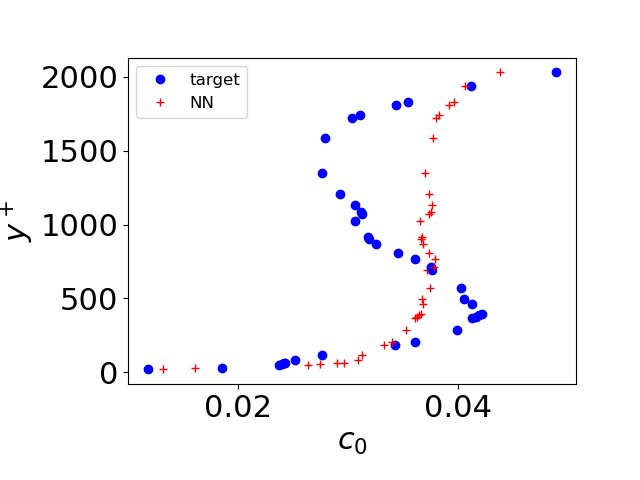
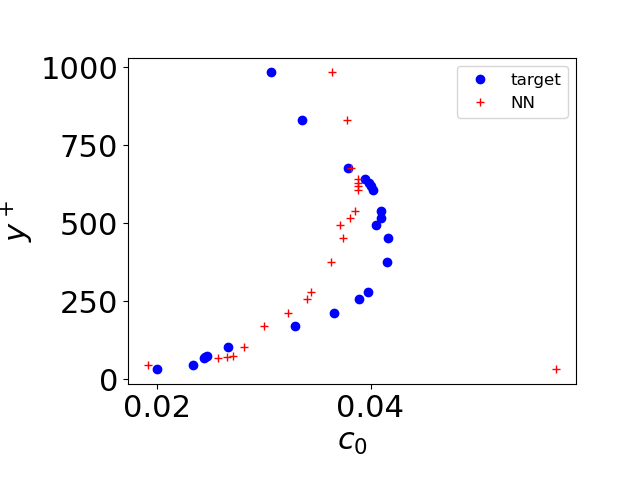
cleanup

diff --git a/NN-train-BL.py b/NN-train-BL.py
@@ -75,13 +75,13 @@ eps_DNS[0]=eps_DNS[1]
 
 
 # choose values for 30 < y+ < 1000
-#index_choose=np.nonzero((yplus_DNS > 30 )  & (yplus_DNS< 1000 ))
-index_choose=np.nonzero((yplus_DNS > 9 )  & (yplus_DNS< 2200 ))
+index_choose=np.nonzero((yplus_DNS > 30 )  & (yplus_DNS< 1000 ))
 
-# set a min on dudy
+# Originally this one
+#index_choose=np.nonzero((yplus_DNS > 9 )  & (yplus_DNS< 2200 ))
+
 # set a min on dudy
 dudy_DNS = np.maximum(dudy_DNS,4e-4)
-
 
 uv_DNS    =  uv_DNS[index_choose]
 uu_DNS    =  uu_DNS[index_choose]
@@ -118,11 +118,13 @@ c_0_DNS=-6*a33_DNS/tau_DNS**2/dudy_DNS**2
 
 c = np.array([c_0_DNS,c_2_DNS])
 
+#### EVERYTHING TO THIS POINT HAS JUST CROPPED INITIAL DATASET TO CERTAIN y+ VALUES AND CALCULATED c:s ####
+
 
 ########################## 2*a11_DNS+a33_DNS
 fig1,ax1 = plt.subplots()
 plt.subplots_adjust(left=0.20,bottom=0.20)
-ax1.scatter(2*a11_DNS+a33_DNS,yplus_DNS, marker="o", s=10, c="red", label="Neural Network")
+ax1.scatter(2*a11_DNS+a33_DNS,yplus_DNS, marker="o", s=10, c="red", label="Cropped initial dataset")
 plt.xlabel("$2a_{11}+a_{33}$")
 plt.ylabel("$y^+$")
 plt.legend(loc="best",fontsize=12)
@@ -136,8 +138,8 @@ prod_DNS_1 = -uv_DNS*dudy_DNS
 fig1,ax1 = plt.subplots()
 plt.subplots_adjust(left=0.20,bottom=0.20)
 #ax1.plot(yplus_DNS_uu,prod_DNS, 'b-', label="prod")
-ax1.plot(yplus_DNS,prod_DNS_1, 'b-', label="$-\overline{u'v'} \partial U/\partial y$")
-ax1.plot(yplus_DNS,eps_DNS,'r--', label="diss")
+ax1.plot(prod_DNS_1,yplus_DNS, 'b-', label="$-\overline{u'v'} \partial U/\partial y$ Cropped Original")
+ax1.plot(eps_DNS,yplus_DNS,'r--', label="dissipation")
 plt.axis([0,200,0,0.3])
 plt.ylabel("$y^+$")
 plt.legend(loc="best",fontsize=12)
@@ -173,12 +175,12 @@ X[:,1] = scaler_dudy.fit_transform(dudy_DNS_inv_scaled)[:,0]
 # test_size=0.2 means we reserve 20% of the data for validation
 # random_state=42 is a fixed seed for the random number generator, ensuring reproducibility
 
-random_state = randrange(100)
+# random_state = randrange(100)
 
 indices = np.arange(len(X))
 X_train, X_test, y_train, y_test, index_train, index_test = train_test_split(X, y, indices,test_size=0.2,shuffle=True,random_state=42)
 
-# create text index 
+# create test index 
 #index= np.arange(0,len(X), dtype=int)
 ## pick every 5th elements 
 #index_test=index[::5]
@@ -191,8 +193,6 @@ X_train, X_test, y_train, y_test, index_train, index_test = train_test_split(X, 
 #
 #X_train = X[index_train]
 #y_train = y[index_train]
-
-
 
 dudy_DNS_train = dudy_DNS[index_train]
 dudy_DNS_inv_train = dudy_DNS_inv[index_train]
@@ -261,15 +261,13 @@ print ('X_test[5]',X_test[k])
 print ('test_k_from_dataset',test_k_from_dataset)
 print ('y_test[5]',y_test[k])
 
-# In[4]:
-
 ########################## check
 fig1,ax1 = plt.subplots()
 plt.subplots_adjust(left=0.20,bottom=0.20)
 
 # OBS
+# Suggestions : 5, len(X_train)
 Nx=len(X_train)
-Nx=5
 
 for k in range(0,Nx):
 # train_k = next(itertools.islice(train_loader, k, None))
